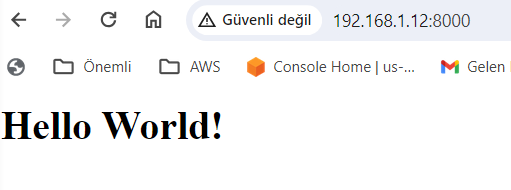
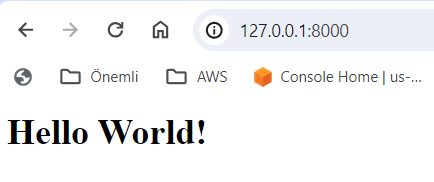
file updated

diff --git a/README.md b/README.md
@@ -36,7 +36,7 @@ Vagrant.configure("2") do |config|
 
   config.vm.box = "ubuntu/focal64"
   
-  config.vm.network "public_network"
+  config.vm.network "forwarded_port", guest: 8000, host: 8000
 
   config.vm.provision "ansible" do |ansible|
     ansible.playbook = "provision.yml"
@@ -44,10 +44,10 @@ Vagrant.configure("2") do |config|
   
 end
 ```
-DHCP den ip alabilmesi için sanal makinenin network ayarı public olarak yapıldı.
+Sanal makinede çalıştırılan portun host makinede erişilebilmesi için ilgili port `guest` parametresine tanımlanır. Host makinede erişilmesi istenilen port ise `host` parametresine tanımlanır. Bu şekilde tanımlanan port, host makinede `localhost` üzerinden erişim sağlanır.
 
 ```ruby
-config.vm.network "public_network"
+config.vm.network "forwarded_port", guest: 8000, host: 8000
 ```
 
 Sanal makineye otomatik yapılandırma sağlamak için Ansible kullanıldı. ansible.playbook ifadesi ile hangi Ansible playbook'unun kullanılacağını belirtir. Bu örnekte, provision.yml isimli playbook belirtildi.
@@ -88,9 +88,14 @@ end
       copy:
         src: ./app/
         dest: /home/vagrant/
+        
+    - name: Start Gunicorn service for Flask application
+      shell: gunicorn --bind 0.0.0.0:8000 app:app
+      args:
+        chdir: /home/vagrant/
 ```
 
-Uygulama python üzerinden geliştirildiğinden ilk olarak çalıştırılacak olan makinede `apt` paket yöneticisi ile `python3` ve `pip` uygulamaları yüklendi. Projenin kullandığı kütüphane ve bağımlılıkları (`flask`, `gunicorn`) için `pip` ile yüklenmesi sağlandı. Son olarak `copy` komutu kullanılarak proje dosyalarının hedef makineye gönderildi.
+Uygulama python üzerinden geliştirildiğinden ilk olarak çalıştırılacak olan makinede `apt` paket yöneticisi ile `python3` ve `pip` uygulamaları yüklendi. Projenin kullandığı kütüphane ve bağımlılıkları (`flask`, `gunicorn`) için `pip` ile yüklenmesi sağlandı. `copy` komutu kullanılarak proje dosyalarının hedef makineye gönderildi. `shell` modülü kullanılarak Gunicorn komutu çalıştırılır. Gunicorn, 0.0.0.0:8000 adresinde dinleme yapar ve uygulama klasörü (/home/vagrant/) altında çalıştırılır. 
 
 Gunicorn, Python uygulamalarının web sunucusu olarak çalıştırılmasını sağlar ve bu durumda bir Flask uygulamasını çalıştırmak için kullanılmaktadır.
 
@@ -101,32 +106,16 @@ Gunicorn, Python uygulamalarının web sunucusu olarak çalıştırılmasını s
     ```
     
     ![](./doc/vm.png)
-
-2. Sanal makineye SSH ile bağlanmak için:
-
-    ```bash
-    vagrant ssh
-    ```
-
-3. Uygulama dizinine gidilerek, uygulama Gunicorn ile çalıştırılır.
-
-   ```bash
-   gunicorn --bind 0.0.0.0:8000 app:app
-   ```
-	--bind 0.0.0.0:8000 Bu, Gunicorn sunucusunun hangi IP adresi ve port üzerinde dinleyeceğini belirtir. app:app Bu, Gunicorn sunucusunun çalıştırılacak uygulamayı belirtir. 
-    
-
-4. Sanal makine ip'sini öğrenmek için `ifconfig` komutu kullanılır. İlgili ip ve port numarası web browser üzerinden girilerek test edilir.
-
+   
     ![Hello World](./doc/app.png)
 
-5. Sanal makineyi kapatmak için:
+2. Sanal makineyi kapatmak için:
 
     ```bash
     vagrant halt
     ```
 
-6. Sanal makinayı tamamen silmek için:
+3. Sanal makinayı tamamen silmek için:
 
     ```bash
     vagrant destroy
